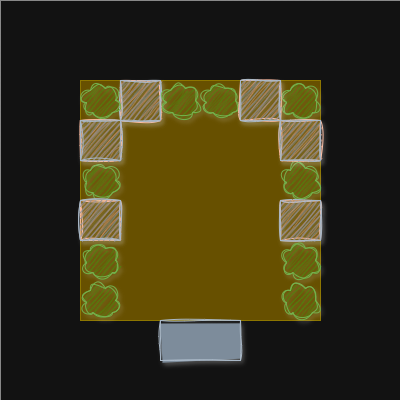
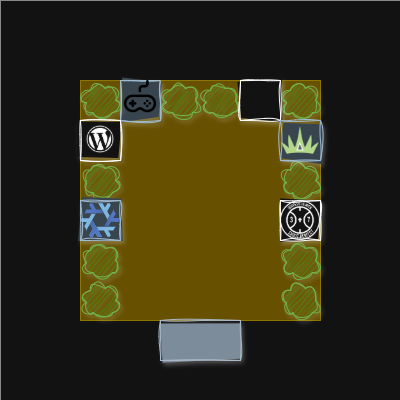
feat: update content for gallery

diff --git a/static/index.html b/static/index.html
@@ -60,28 +60,35 @@
       </section>
       <section data-frame="gallery">
         <h2>Gallery</h2>
-        <div data-prompt="project-1">
-          <h3>Project #1</h3>
-          <div data-prompt-content="project-1">
-            <p>Project...</p>
+        <div data-prompt="nixos">
+          <h3>Some modules for NixOS</h3>
+          <div data-prompt-content="nixos">
+            <p>- https://github.com/JimJ92120/lxd-preseed-for-nixos</p>
+            <p>- https://github.com/JimJ92120/nixos-hyprland-module</p>
           </div>
         </div>
-        <div data-prompt="project-2">
-          <h3>Project #2</h3>
-          <div data-prompt-content="project-2">
-            <p>Project...</p>
+        <div data-prompt="wordpress">
+          <h3>Some work related to WordPress</h3>
+          <div data-prompt-content="wordpress">
+            <p>
+              - https://github.com/JimJ92120/wordpress-plugin-image-watermark
+            </p>
+            <p>
+              -
+              https://github.com/JimJ92120/wordpress-plugin-allow-models-upload
+            </p>
           </div>
         </div>
-        <div data-prompt="project-3">
-          <h3>Project #3</h3>
-          <div data-prompt-content="project-3">
-            <p>Project...</p>
+        <div data-prompt="games">
+          <h3>Some simple games</h3>
+          <div data-prompt-content="games">
+            <p>- https://jimj92120.github.io/sudoku</p>
           </div>
         </div>
         <div data-prompt="project-4">
-          <h3>Project #4</h3>
+          <!-- <h3>Coming soon</h3> -->
           <div data-prompt-content="project-4">
-            <p>Project...</p>
+            <p>Coming soon...</p>
           </div>
         </div>
         <div data-prompt="official-production">

diff --git a/src/components/frames.ts b/src/components/frames.ts
@@ -97,11 +97,11 @@ export default {
       [1, 1, 1, 1, 1, 1, 1, 1, 1, 1],
     ],
     {
-      ["3,2"]: [FrameActionType.Prompt, "project-3"],
+      ["3,2"]: [FrameActionType.Prompt, "games"],
       ["6,2"]: [FrameActionType.Prompt, "project-4"],
-      ["2,3"]: [FrameActionType.Prompt, "project-2"],
+      ["2,3"]: [FrameActionType.Prompt, "wordpress"],
       ["7,3"]: [FrameActionType.Prompt, "official-production"],
-      ["2,5"]: [FrameActionType.Prompt, "project-1"],
+      ["2,5"]: [FrameActionType.Prompt, "nixos"],
       ["7,5"]: [FrameActionType.Prompt, "hoopers-heaven"],
       ["4,8"]: [FrameActionType.Load, "main"],
       ["5,8"]: [FrameActionType.Load, "main"],
